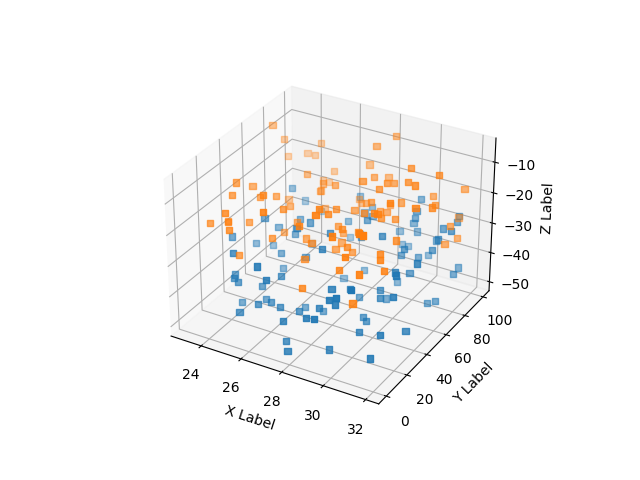
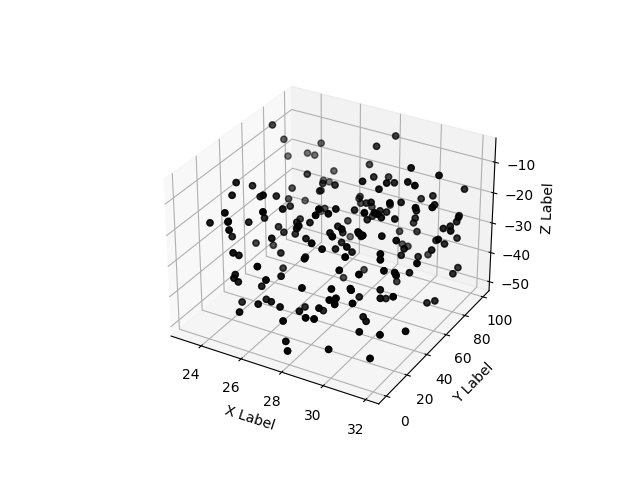
yyk

diff --git a/3d_dich.py b/3d_dich.py
@@ -15,7 +15,7 @@ def randrange(n, vmin, vmax):
 fig = plt.figure()
 ax = fig.add_subplot(projection='3d')
 
-n = 100
+n = 1000
 
 # For each set of style and range settings, plot n random points in the box
 # defined by x in [23, 32], y in [0, 100], z in [zlow, zhigh].
@@ -23,7 +23,7 @@ for m, zlow, zhigh in [(',', -50, -25), (',', -30, -5)]:
     xs = randrange(n, 23, 32)
     ys = randrange(n, 0, 100)
     zs = randrange(n, zlow, zhigh)
-    ax.scatter(xs, ys, zs, marker=m)
+    ax.scatter(xs, ys, zs, color='black')
 
 ax.set_xlabel('X Label')
 ax.set_ylabel('Y Label')
